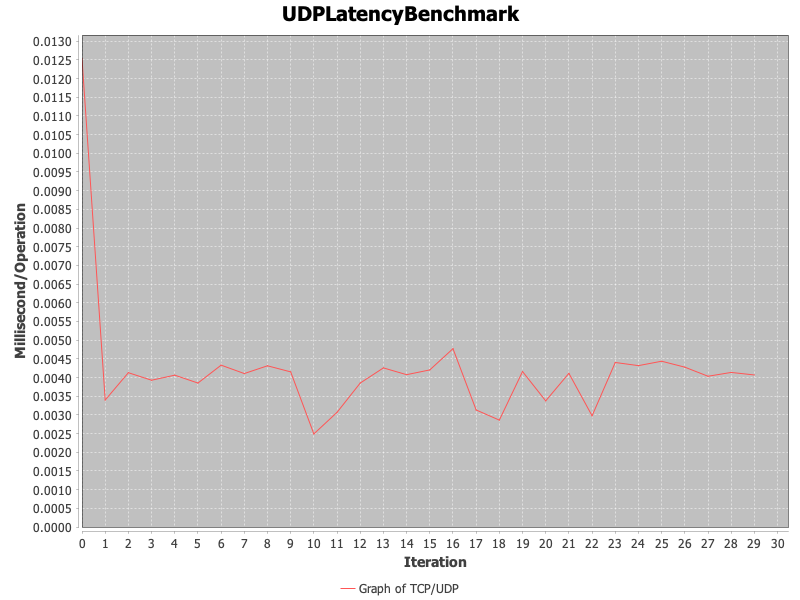
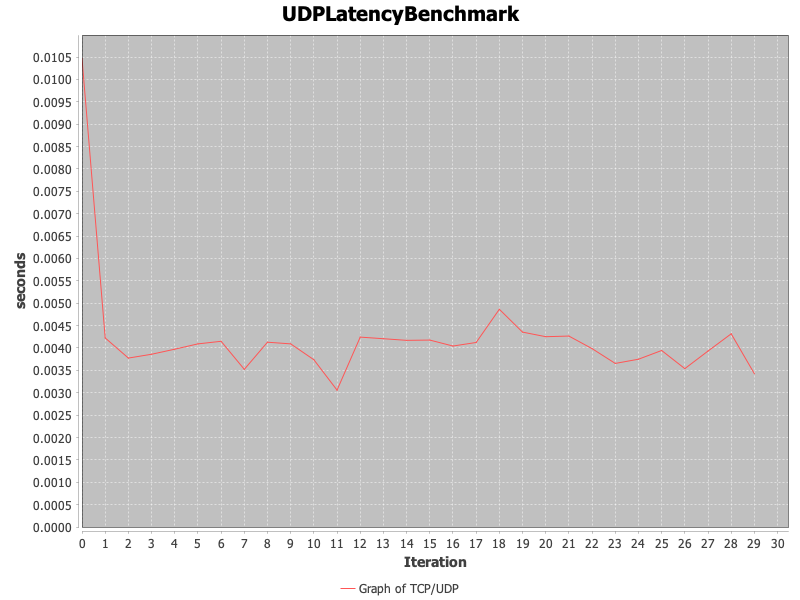
Units Fixed

diff --git a/src/main/resources/static/index.html b/src/main/resources/static/index.html
@@ -78,9 +78,6 @@
             background-color: #575757;
         }
 
-        .data-columns {
-        }
-
         .tab-content {
             display: none;
         }
@@ -88,6 +85,7 @@
         .tab-content.active {
             display: block;
         }
+
     </style>
 </head>
 <body>

diff --git a/src/main/java/org/network/Graphing.java b/src/main/java/org/network/Graphing.java
@@ -30,7 +30,7 @@ public class Graphing {
         JFreeChart hashMapLineChart = ChartFactory.createXYLineChart(
                 title,
                 "Iteration",
-                "Millisecond/Operation",
+                "Mb/s",
                 solutionsXY,
                 PlotOrientation.VERTICAL,
                 true,
